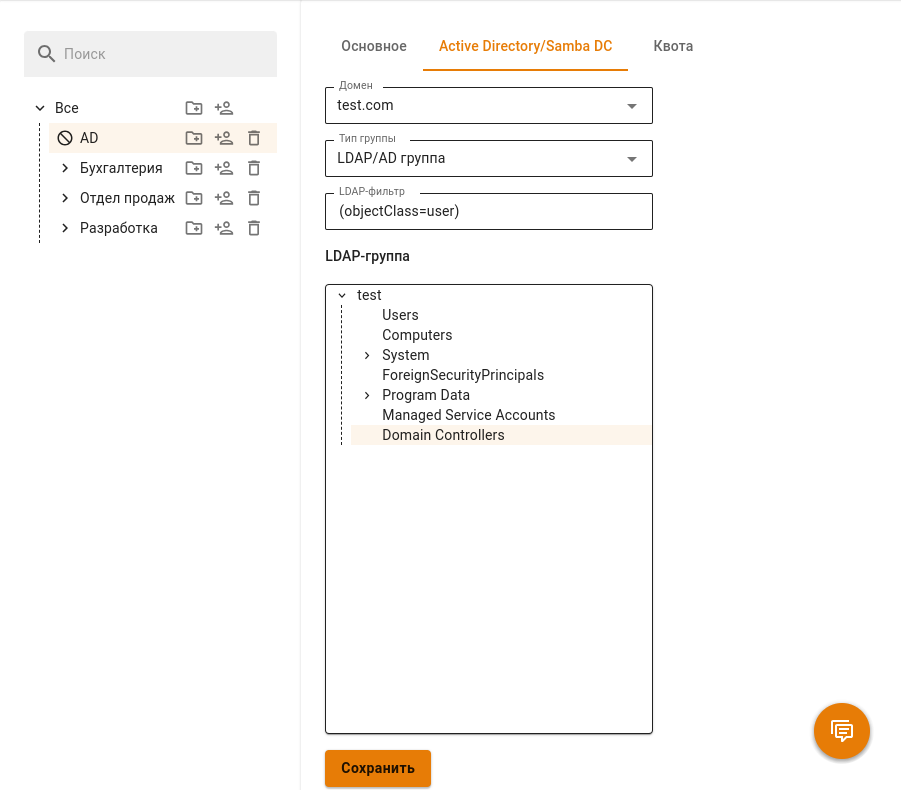
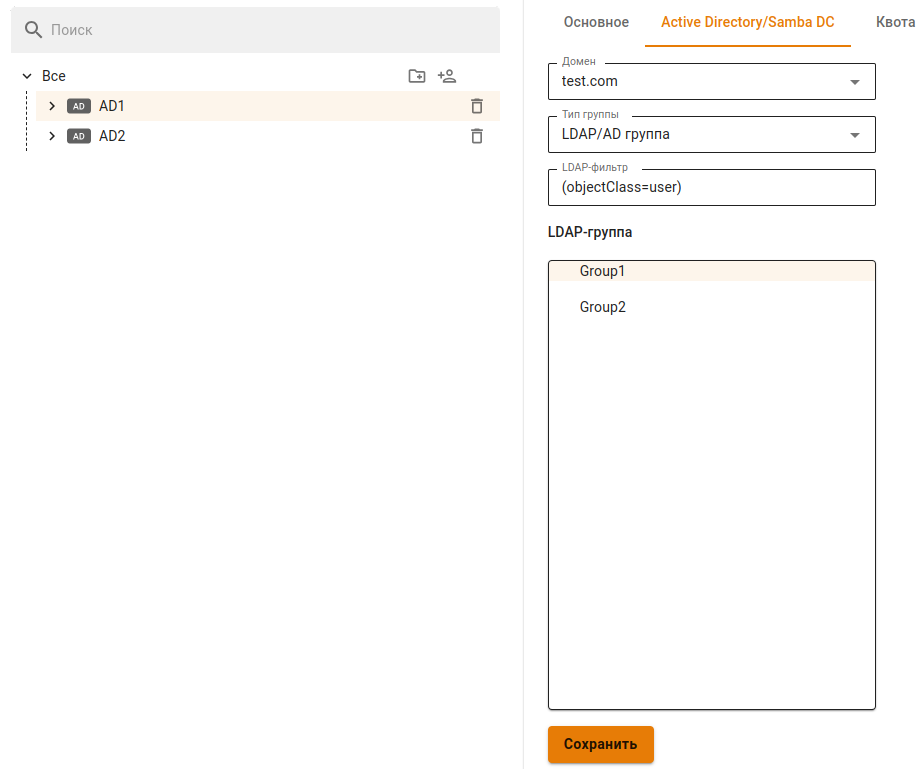
ICS-34158 УТМ. Актуализировать ст-и AD

diff --git a/settings/users/active-directory/active-directory-user-authorization.md b/settings/users/active-directory/active-directory-user-authorization.md
@@ -10,8 +10,9 @@
 Для пользователей, имортированных из Aсtive Directory, доступны все типы авторизации.
 
 {% hint style="info" %}
-Рекомендуется одновременно использовать оба типа авторизации.
+Авторизацию через журнал безопасности Active Directory рекомендуется использовать совместно с SSO-авторизацией.
 {% endhint %}
+
 
 Для пользователей, импортированных из Samba, доступны **все типы авторизации**, кроме **авторизации через журнал безопасности**.
 
@@ -30,14 +31,14 @@
 
 ## Настройка Ideco NGFW
 
-Для включения **SSO аутентификации** и **Авторизации через журнал безопасности Active Directory** перейдите на вкладку **Пользователи -> Авторизация -> Основное** и включите эти типы авторизации. Нажмите кнопку **Сохранить**.
+Для включения **SSO-аутентификации** и **Авторизации через журнал безопасности Active Directory** перейдите на вкладку **Пользователи -> Авторизация -> Основное** и включите эти типы авторизации. Нажмите кнопку **Сохранить**.
 
-![](../../../.gitbook/assets/active-directory5.png)
+![](/.gitbook/assets/active-directory5.png)
 
 {% hint style="info" %}
 После заполнения поля **Доменное имя Ideco NGFW** и сохранения настроек будет выдан Let’s Encrypt сертификат, пользователь будет перенаправляться на окно авторизации, минуя страницу исключения безопасности:
 
-<img src="../../../.gitbook/assets/web-autorization2.png" alt="" data-size="original">
+<img src="/.gitbook/assets/web-autorization2.png" alt="" data-size="original">
 
 Если сертификат для такого домена уже загружен в разделе [Сертификаты](../../services/certificates/), то будет использоваться загруженный сертификат, новый сертификат выдаваться не будет.
 {% endhint %}
@@ -54,11 +55,11 @@
 
 1. В настройках брандмауэра Windows на всех контроллерах домена (или доменов) разрешите **удаленное управление журналом событий (Remote Event Log Management)**:
 
-![](../../../.gitbook/assets/active-directory6.png)
+![](/.gitbook/assets/active-directory6.png)
 
 2. Добавьте Ideco NGFW в группу безопасности **Читатели журнала событий (Event Log Readers)**:
 
-![](../../../.gitbook/assets/active-directory7.png)
+![](/.gitbook/assets/active-directory7.png)
 
 3. Перезапустите службу **Авторизация через журнал безопасности Active Directory** на Ideco NGFW. Отключите эту настройку и заново включите;
 
@@ -66,11 +67,11 @@
 
 **Англоязычная версия:**
 
-![](../../../.gitbook/assets/active-directory9.gif)
+![](/.gitbook/assets/active-directory9.gif)
 
 **Русскоязычная версия:**
 
-![](../../../.gitbook/assets/active-directory8.gif)
+![](/.gitbook/assets/active-directory8.gif)
 
 {% hint style="info" %}
 Для обновления политик контроллеров доменов выполните `gpupdate /force`;\
@@ -79,7 +80,7 @@
 
 ## Настройка клиентских машин для веб-аутентификации (SSO или NTLM)
 
-Для работы аутентификации через веб-браузер (с использованием Kerberos или NTLM) настройте Internet Explorer (остальные браузеры подхватят его настройки).\
+Для работы аутентификации через веб-браузер (с использованием Kerberos или NTLM) настройте Internet Explorer (остальные браузеры подхватят его настройки).
 
 {% hint style="danger" %}
 Обязательно используйте настройки веб-аутентификации, т. к. в некоторых случаях будет необходима аутентификация пользователей через браузер (даже при авторизации через журнал безопасности).
@@ -103,7 +104,7 @@
 
 Пример введения Ideco NGFW в домен `example.ru` под именем `idecoics`.
 
-![](../../../.gitbook/assets/active-directory.jpg)
+![](/.gitbook/assets/active-directory.jpg)
 
 Для применения настройки ко всем пользователям на клиентской машине выполните действия:
 
@@ -127,7 +128,7 @@
 
 2. Введите назначение зоны для DNS-имени Ideco NGFW (в примере idecoics.example.ru) со значением, равным 1 (интрасеть). Укажите два назначения для схем работы по http и https.
 
-![](../../../.gitbook/assets/active-directory1.png)
+![](/.gitbook/assets/active-directory1.png)
 
 {% hint style="info" %}
 При входе на HTTPS-сайт необходимо разрешить браузеру доверять сертификату Ideco NGFW. Чтобы не делать это каждый раз, можно добавить корневой сертификат Ideco NGFW в доверенные корневые сертификаты устройства.
@@ -153,7 +154,7 @@
 При прямых подключениях к прокси **не указывайте** в качестве шлюза IP-адрес Ideco NGFW.
 {% endhint %}
 
-![](../../../.gitbook/assets/active-directory2.png)
+![](/.gitbook/assets/active-directory2.png)
 
 <details>
 
@@ -174,12 +175,12 @@
 
 Если в Internet Explorer появляется окно с текстом **Для получения доступа требуется аутентификация** и аутентификация происходит только при ручном переходе по ссылке, установите параметр **Активные сценарии** в Internet Explorer в значение **Включить**.
 
-<img src="../../../.gitbook/assets/active-directory3.jpg" alt="" data-size="original">
+<img src="/.gitbook/assets/active-directory3.jpg" alt="" data-size="original">
 
 Доменному пользователю должно быть разрешено аутентифицироваться на Ideco NGFW. На контроллере домена зайдите в свойства выбранных пользователей во вкладку **Учетная запись** -> **Вход на...**, выберите пункт **только на указанные компьютеры** и пропишите имя рабочей станции для входа в систему.
 
 Пример такой настройки представлен на скриншоте ниже:
 
-<img src="../../../.gitbook/assets/active-directory4.png" alt="" data-size="original">
+<img src="/.gitbook/assets/active-directory4.png" alt="" data-size="original">
 
 </details>

diff --git a/settings/users/active-directory/entering-the-server-into-the-domain.md b/settings/users/active-directory/entering-the-server-into-the-domain.md
@@ -10,13 +10,16 @@
 1. Перейдите на вкладку **Пользователи -> Active Directory/Samba DC**.
 2. Нажмите кнопку **Добавить**.
 3. Заполните следующие поля:
-   * **Имя домена**: введите полное наименование домена, длина которого не должна превышать 64 символа. Например: `mydomain.example`;
-   * **DNS-сервер AD/Samba**: введите адрес сервера, обладающий ролью DNS-сервера в контроллере домена, доступный с локального интерфейса Ideco NGFW;
-   * **Имя сервера Ideco NGFW**: введите имя компьютера, под которым Ideco NGFW будет введен в контроллер домена;
-   * **Учетная запись с правом присоединения к домену**: введите учетную запись AD с правами присоединения к домену.
-
+   * **Домен**: введите полное наименование домена, длина которого не должна превышать 64 символа. Например: `mydomain.example`;
+   * **DNS-сервер AD**: введите адрес сервера, обладающий ролью DNS-сервера в контроллере домена, доступный с локального интерфейса Ideco NGFW;
+   * **Название сервера Ideco NGFW**: введите имя компьютера, под которым Ideco NGFW будет введен в контроллер домена;
+   * **Учетная запись с правом присоединения к домену**: введите учетную запись AD с правами присоединения к домену;
+   * **LDAP-пути**: укажите LDAP-пути для импорта пользователей и групп из выбранной [организационной единицы(OU).](https://serverspace.ru/support/help/kak-upravlyat-ou-v-active-directory/?utm_source=google.com&utm_medium=organic&utm_campaign=google.com&utm_referrer=google.com)
+  
 {% hint style="info" %}
 Данные учетной записи с правом присоединения к домену не сохраняются на сервере и используются один раз при вводе в домен.
+
+Указание LDAP-путей позволяет импортировать только нужные группы и OU AD, чтобы избежать импорта всего дерева AD.
 {% endhint %}
 
 {% hint style="warning" %}
@@ -25,10 +28,10 @@
 
 Пример настройки интеграции:
 
-![](../../../.gitbook/assets/added-ad.png)
+![](/.gitbook/assets/added-ad.png)
 
 Процесс присоединения к домену после нажатия одноименной кнопки может занять до одной минуты.\
-Возможно присоединение сервера к нескольким доменам с некоторыми особенностями работы, описанными в [статье](./).
+Возможно присоединение сервера к нескольким доменам с некоторыми особенностями работы, описанными в [статье](README.md#osobennosti-ispolzovaniya-integracii-s-neskolkimi-kontrollerami-domena).
 
 {% hint style="info" %}
 При выходе из домена удаляются все пользователи и группы, импортированные из него.
@@ -38,14 +41,16 @@
 ## Настройка DNS для разрешения имен локального домена
 
 Для корректной работы синхронизации и авторизации пользователей на Ideco NGFW настройте разрешение имен локального домена в настройках DNS:
-1. Пропишите Forward-зону в настройках DNS;
-2. Пропишите DNS-серверы для Forward-зоны (адреса основного и резервного контроллера домена).
+
+1\. Пропишите Forward-зону в настройках DNS;
+
+2\. Пропишите DNS-серверы для Forward-зоны (адреса основного и резервного контроллера домена).
 
 {% hint style="info" %}
-В Ideco NGFW Forward-зона DNS создается автоматически при вводе сервера в домен, и настраивать ее вручную нет необходимости. Создавайте ее вручную только, если по ошибке удалили данную зону из настроек DNS-сервера или если не получилось присоединить сервер к домену.
+В Ideco NGFW Forward-зона DNS создается автоматически при вводе сервера в домен. Создавайте ее вручную только, если по ошибке удалили данную зону из настроек DNS-сервера или если не получилось присоединить сервер к домену.
 {% endhint %}
 
-![](../../../.gitbook/assets/dns.png)
+![](/.gitbook/assets/dns.png)
 
 **В примере:**
 

diff --git a/settings/users/active-directory/user-import.md b/settings/users/active-directory/user-import.md
@@ -13,19 +13,19 @@
 
 Для импорта пользователей выполните следующие действия:
 
-1. Создайте группу в дереве пользователей Ideco NGFW. Подробнее о создании групп - в статье [**Управление пользователями**](../user-tree/user-management.md#sozdanie-gruppy).
+1. Создайте группу в дереве пользователей Ideco NGFW. Подробнее о создании групп - в статье [**Управление пользователями**](/settings/users/user-tree/user-management.md#sozdanie-gruppy).
 2. Выберите эту группу в дереве и перейдите на вкладку **Active Directory/Samba DC** в правой части экрана.
 3. Выберите домен, из которого требуется импортировать пользователей (если Ideco NGFW является членом нескольких доменов).
 4. В поле **Тип группы** выберите LDAP/AD группа.
-5. При нажатии на поле **LDAP группа** откроется дерево пользователей. Выберите из него необходимую группу для импорта (также можно выбрать корневую группу для импорта всего дерева).
+5. При нажатии на поле **LDAP группа** будет отображен либо весь домен, либо группы, которые были указаны при вводе NGFW в домен. Выберите из него необходимую группу для импорта (можно выбрать корневую группу для импорта всего дерева).
 6. Нажмите **Сохранить** (будет произведен импорт пользователей).
 
-![](../../../.gitbook/assets/user-import3.png)
+![](/.gitbook/assets/user-import3.png)
 
 {% hint style="info" %}
 В дальнейшем пользователи будут автоматически синхронизироваться с контроллером домена каждые 15 минут.
 
-При импорте пользователей также импортируются и номера телефонов для использования [двухфакторной аутентификации](broken-reference).
+При импорте пользователей также импортируются и номера телефонов для использования [двухфакторной аутентификации](../../users/two-factor-authentication.md).
 {% endhint %}
 
 При необходимости можно воспользоваться фильтром запросов. Например, если в одних и тех же контейнерах находятся пользователи и компьютеры, а импортировать нужно только пользователей, то в поле **LDAP-фильтр** напишите следующий текст:
@@ -41,7 +41,7 @@
 ## Импорт учетных записей из групп безопасности
 
 {% hint style="info" %}
-Пользователь контроллера домена может быть импортирован только в одну группу Ideco NGFW. Если он находится в нескольких группах безопасности, он попадет только в одну группу, которая была импортирована самой последней.
+Пользователь контроллера домена может быть импортирован только в одну группу Ideco NGFW. Если он находится в нескольких группах безопасности, он попадет только в ту группу, которая была импортирована последней.
 {% endhint %}
 
 Можно импортировать любое количество групп безопасности AD в разные папки в дереве пользователей Ideco NGFW.
@@ -53,9 +53,7 @@
 5. В поле ниже из раскрывающегося списка выберите нужную группу безопасности.
 6. Нажмите на кнопку **Сохранить**.
 
-Пример настройки импорта пользователей из групп безопасности представлен на скриншоте ниже:
-
-![](../../../.gitbook/assets/user-import2.png)
+![](/.gitbook/assets/user-import2.png)
 
 <details>
 
@@ -101,7 +99,7 @@ POST https://адрес_сервера/web/auth/login
 }
 ```
 
-<img src="../../../.gitbook/assets/user-import.png" alt="" data-size="original">
+<img src="/.gitbook/assets/user-import.png" alt="" data-size="original">
 
 5\. Отправьте запрос на включение режима:
 
@@ -117,7 +115,7 @@ PUT /ad_backend/security_group_import_settings
 }
 ```
 
-<img src="../../../.gitbook/assets/user-import1.png" alt="" data-size="original">
+<img src="/.gitbook/assets/user-import1.png" alt="" data-size="original">
 
 Для выключения режима совместимости в теле запроса вместо `true` укажите `false`.
 

diff --git a/settings/users/active-directory/README.md b/settings/users/active-directory/README.md
@@ -51,7 +51,7 @@ description: >-
 
 ![](/.gitbook/assets/add-users-ad1.png)
 
-2\. Перейдите в раздел, в котором требуется использовать импортированную из AD группу или учетную запись. Например, в _Контроль приложений_:
+2\. Перейдите в раздел, в котором требуется использовать импортированную из AD группу или учетную запись. Например, в **Контроль приложений**:
 
 ![](/.gitbook/assets/add-users-ad2.png)
 
